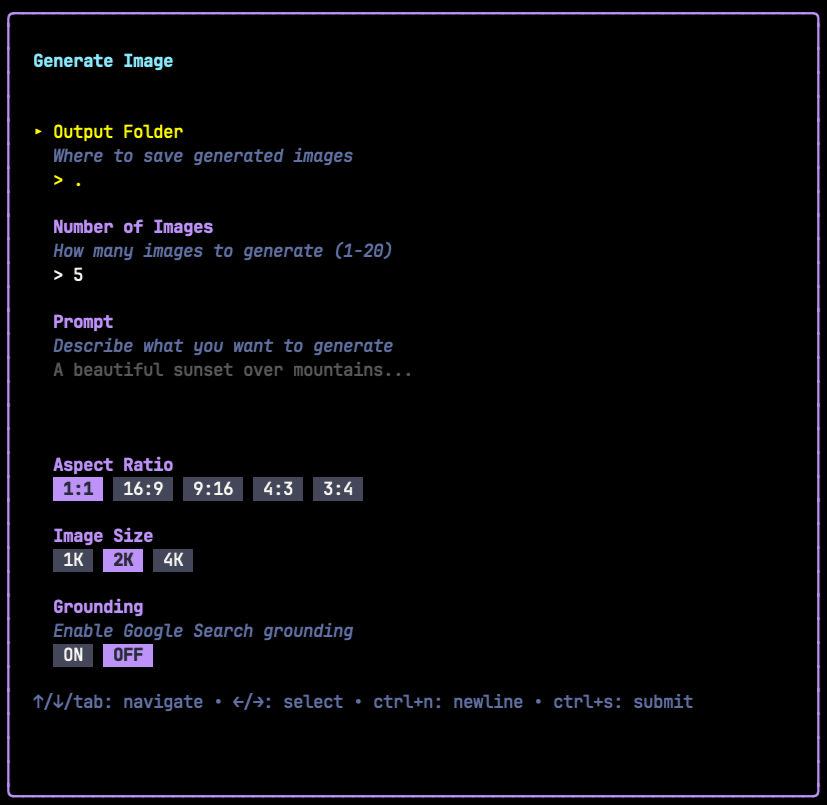
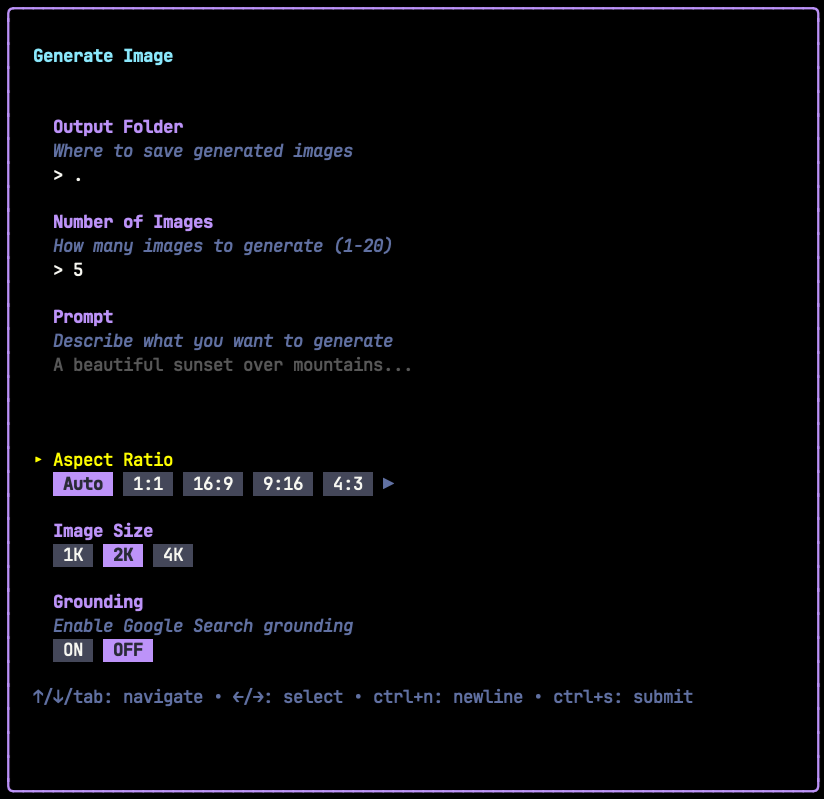
🚀 feat: Add expanded aspect ratio options with Auto default
- Add "Auto" as default aspect ratio (omits from API request)
- Support 11 aspect ratios: Auto, 1:1, 16:9, 9:16, 4:3, 3:4, 2:3, 3:2, 5:4, 4:5, 21:9
- Add horizontal scrolling for TUI select fields with ◀ ▶ indicators
- Update CLI to default to Auto instead of 1:1

Updated:
- ui/forms.go - Aspect ratio options, horizontal scroll view
- cli/cli.go - Valid ratios, default changed to Auto
- api/gemini.go - omitempty on aspectRatio field
- README.md - Updated aspect ratio documentation
- release-notes.md - Added v1.0.4

diff --git a/ui/forms.go b/ui/forms.go
@@ -422,8 +422,36 @@ func (f *Form) View() string {
 			}
 
 		case FieldSelect:
+			// Show max 5 items with scroll indicators
+			const maxVisible = 5
+			totalOpts := len(field.Options)
+
+			// Calculate visible window centered on selection
+			startIdx := 0
+			endIdx := totalOpts
+			if totalOpts > maxVisible {
+				// Center the window on the selected item
+				startIdx = field.Selected - maxVisible/2
+				if startIdx < 0 {
+					startIdx = 0
+				}
+				endIdx = startIdx + maxVisible
+				if endIdx > totalOpts {
+					endIdx = totalOpts
+					startIdx = endIdx - maxVisible
+				}
+			}
+
 			var opts []string
-			for j, opt := range field.Options {
+
+			// Left scroll indicator
+			if startIdx > 0 {
+				opts = append(opts, descStyle.Render("◀"))
+			}
+
+			// Visible options
+			for j := startIdx; j < endIdx; j++ {
+				opt := field.Options[j]
 				if j == field.Selected {
 					style := lipgloss.NewStyle().
 						Background(DraculaPurple).
@@ -439,6 +467,12 @@ func (f *Form) View() string {
 					opts = append(opts, style.Render(opt.Label))
 				}
 			}
+
+			// Right scroll indicator
+			if endIdx < totalOpts {
+				opts = append(opts, descStyle.Render("▶"))
+			}
+
 			b.WriteString("  " + strings.Join(opts, " ") + "\n")
 
 		case FieldToggle:
@@ -589,13 +623,20 @@ func computePathSuggestions(input string, dirsOnly bool, allowedExts []string) [
 }
 
 // AspectRatioOptions returns standard aspect ratio options
+// Auto (empty string) means aspectRatio is not sent in the request
 func AspectRatioOptions() []SelectOption {
 	return []SelectOption{
+		{Label: "Auto", Value: ""},
 		{Label: "1:1", Value: "1:1"},
 		{Label: "16:9", Value: "16:9"},
 		{Label: "9:16", Value: "9:16"},
 		{Label: "4:3", Value: "4:3"},
 		{Label: "3:4", Value: "3:4"},
+		{Label: "2:3", Value: "2:3"},
+		{Label: "3:2", Value: "3:2"},
+		{Label: "5:4", Value: "5:4"},
+		{Label: "4:5", Value: "4:5"},
+		{Label: "21:9", Value: "21:9"},
 	}
 }
 

diff --git a/cli/cli.go b/cli/cli.go
@@ -32,7 +32,17 @@ type Options struct {
 // Valid aspect ratios and image sizes
 var (
 	validAspectRatios = map[string]bool{
-		"1:1": true, "16:9": true, "9:16": true, "4:3": true, "3:4": true,
+		"":     true, // Auto (not included in request)
+		"1:1":  true,
+		"16:9": true,
+		"9:16": true,
+		"4:3":  true,
+		"3:4":  true,
+		"2:3":  true,
+		"3:2":  true,
+		"5:4":  true,
+		"4:5":  true,
+		"21:9": true,
 	}
 	validImageSizes = map[string]bool{
 		"1K": true, "2K": true, "4K": true,
@@ -46,7 +56,7 @@ func ParseFlags() (*Options, bool) {
 	flag.StringVar(&opts.Prompt, "p", "", "Prompt text (required for CLI mode)")
 	flag.StringVar(&opts.Output, "o", ".", "Output folder")
 	flag.IntVar(&opts.NumImages, "n", 1, "Number of images to generate (1-20)")
-	flag.StringVar(&opts.AspectRatio, "ar", "1:1", "Aspect ratio: 1:1, 16:9, 9:16, 4:3, 3:4")
+	flag.StringVar(&opts.AspectRatio, "ar", "", "Aspect ratio (default: Auto)")
 	flag.StringVar(&opts.ImageSize, "s", "1K", "Image size: 1K, 2K, 4K")
 	flag.BoolVar(&opts.Grounding, "g", false, "Enable grounding with Google Search")
 	flag.StringVar(&opts.RefInput, "i", "", "Reference image/folder (enables edit mode)")
@@ -85,7 +95,7 @@ func (opts *Options) Validate() error {
 
 	// Validate aspect ratio
 	if !validAspectRatios[opts.AspectRatio] {
-		return fmt.Errorf("invalid aspect ratio: %s (valid: 1:1, 16:9, 9:16, 4:3, 3:4)", opts.AspectRatio)
+		return fmt.Errorf("invalid aspect ratio: %s", opts.AspectRatio)
 	}
 
 	// Validate image size
@@ -236,7 +246,7 @@ Flags:
   -p string    Prompt (required for CLI mode)
   -o string    Output folder (default ".")
   -n int       Number of images (default 1)
-  -ar string   Aspect ratio: 1:1, 16:9, 9:16, 4:3, 3:4 (default "1:1")
+  -ar string   Aspect ratio (default: Auto)
   -s string    Image size: 1K, 2K, 4K (default "1K")
   -g           Enable grounding with Google Search
   -i string    Reference image/folder (enables edit mode)

diff --git a/api/gemini.go b/api/gemini.go
@@ -35,7 +35,7 @@ type Content struct {
 }
 
 type ImageConfig struct {
-	AspectRatio string `json:"aspectRatio"`
+	AspectRatio string `json:"aspectRatio,omitempty"`
 	ImageSize   string `json:"imageSize"`
 }
 

diff --git a/README.md b/README.md
@@ -14,7 +14,7 @@ Features both an interactive terminal UI and a scriptable CLI interface.
 [Features](#features) • [Installation](#installation) • [Quick Start](#quick-start) • [CLI Reference](#cli-reference) • [TUI Guide](#tui-guide)
 
 ![BANANA CLI TUI](screenshots/tui1.png)
-![BANANA CLI TUI](screenshots/tui2.png)
+![BANANA CLI TUI](screenshots/tui2.png?v=1)
 
 
 
@@ -135,7 +135,7 @@ Running `banana` without flags opens the interactive TUI.
 | `-p` | | string | **Prompt** - The text description for image generation | *required* |
 | `-o` | | string | **Output** - Directory to save generated images | `.` (current) |
 | `-n` | | int | **Number** - How many images to generate (1-20) | `1` |
-| `-ar` | | string | **Aspect Ratio** - Image dimensions ratio | `1:1` |
+| `-ar` | | string | **Aspect Ratio** - Image dimensions ratio | `Auto` |
 | `-s` | | string | **Size** - Output resolution | `1K` |
 | `-g` | | bool | **Grounding** - Enable Google Search grounding | `false` |
 | `-i` | | string | **Input** - Reference image/folder for edit mode | *none* |
@@ -158,11 +158,17 @@ The config file is stored at `~/.config/banana/config.json`.
 
 | Value | Use Case |
 |-------|----------|
+| `Auto` | **Default** - Let Gemini decide the best ratio |
 | `1:1` | Square - Social media posts, profile pictures |
 | `16:9` | Landscape - Desktop wallpapers, YouTube thumbnails |
 | `9:16` | Portrait - Phone wallpapers, Instagram stories |
 | `4:3` | Classic - Presentations, traditional photos |
 | `3:4` | Portrait Classic - Portraits, posters |
+| `2:3` | Portrait - Standard photo print ratio |
+| `3:2` | Landscape - DSLR camera ratio |
+| `5:4` | Near-square - Medium format photos |
+| `4:5` | Portrait - Instagram portrait posts |
+| `21:9` | Ultra-wide - Cinematic, ultrawide monitors |
 
 ### Image Sizes
 

diff --git a/release-notes.md b/release-notes.md
@@ -1,3 +1,19 @@
+# BANANA CLI v1.0.4
+
+## What's New
+
+### Expanded Aspect Ratios
+
+- Added "Auto" as the default aspect ratio - lets Gemini choose the best ratio for your prompt
+- Now supports 11 aspect ratios: Auto, 1:1, 16:9, 9:16, 4:3, 3:4, 2:3, 3:2, 5:4, 4:5, 21:9
+- Added ultra-wide 21:9 for cinematic shots
+
+### Improved TUI
+
+- Horizontal scrolling for aspect ratio selector with ◀ ▶ indicators
+
+---
+
 # BANANA CLI v1.0.3
 
 ## What's New
